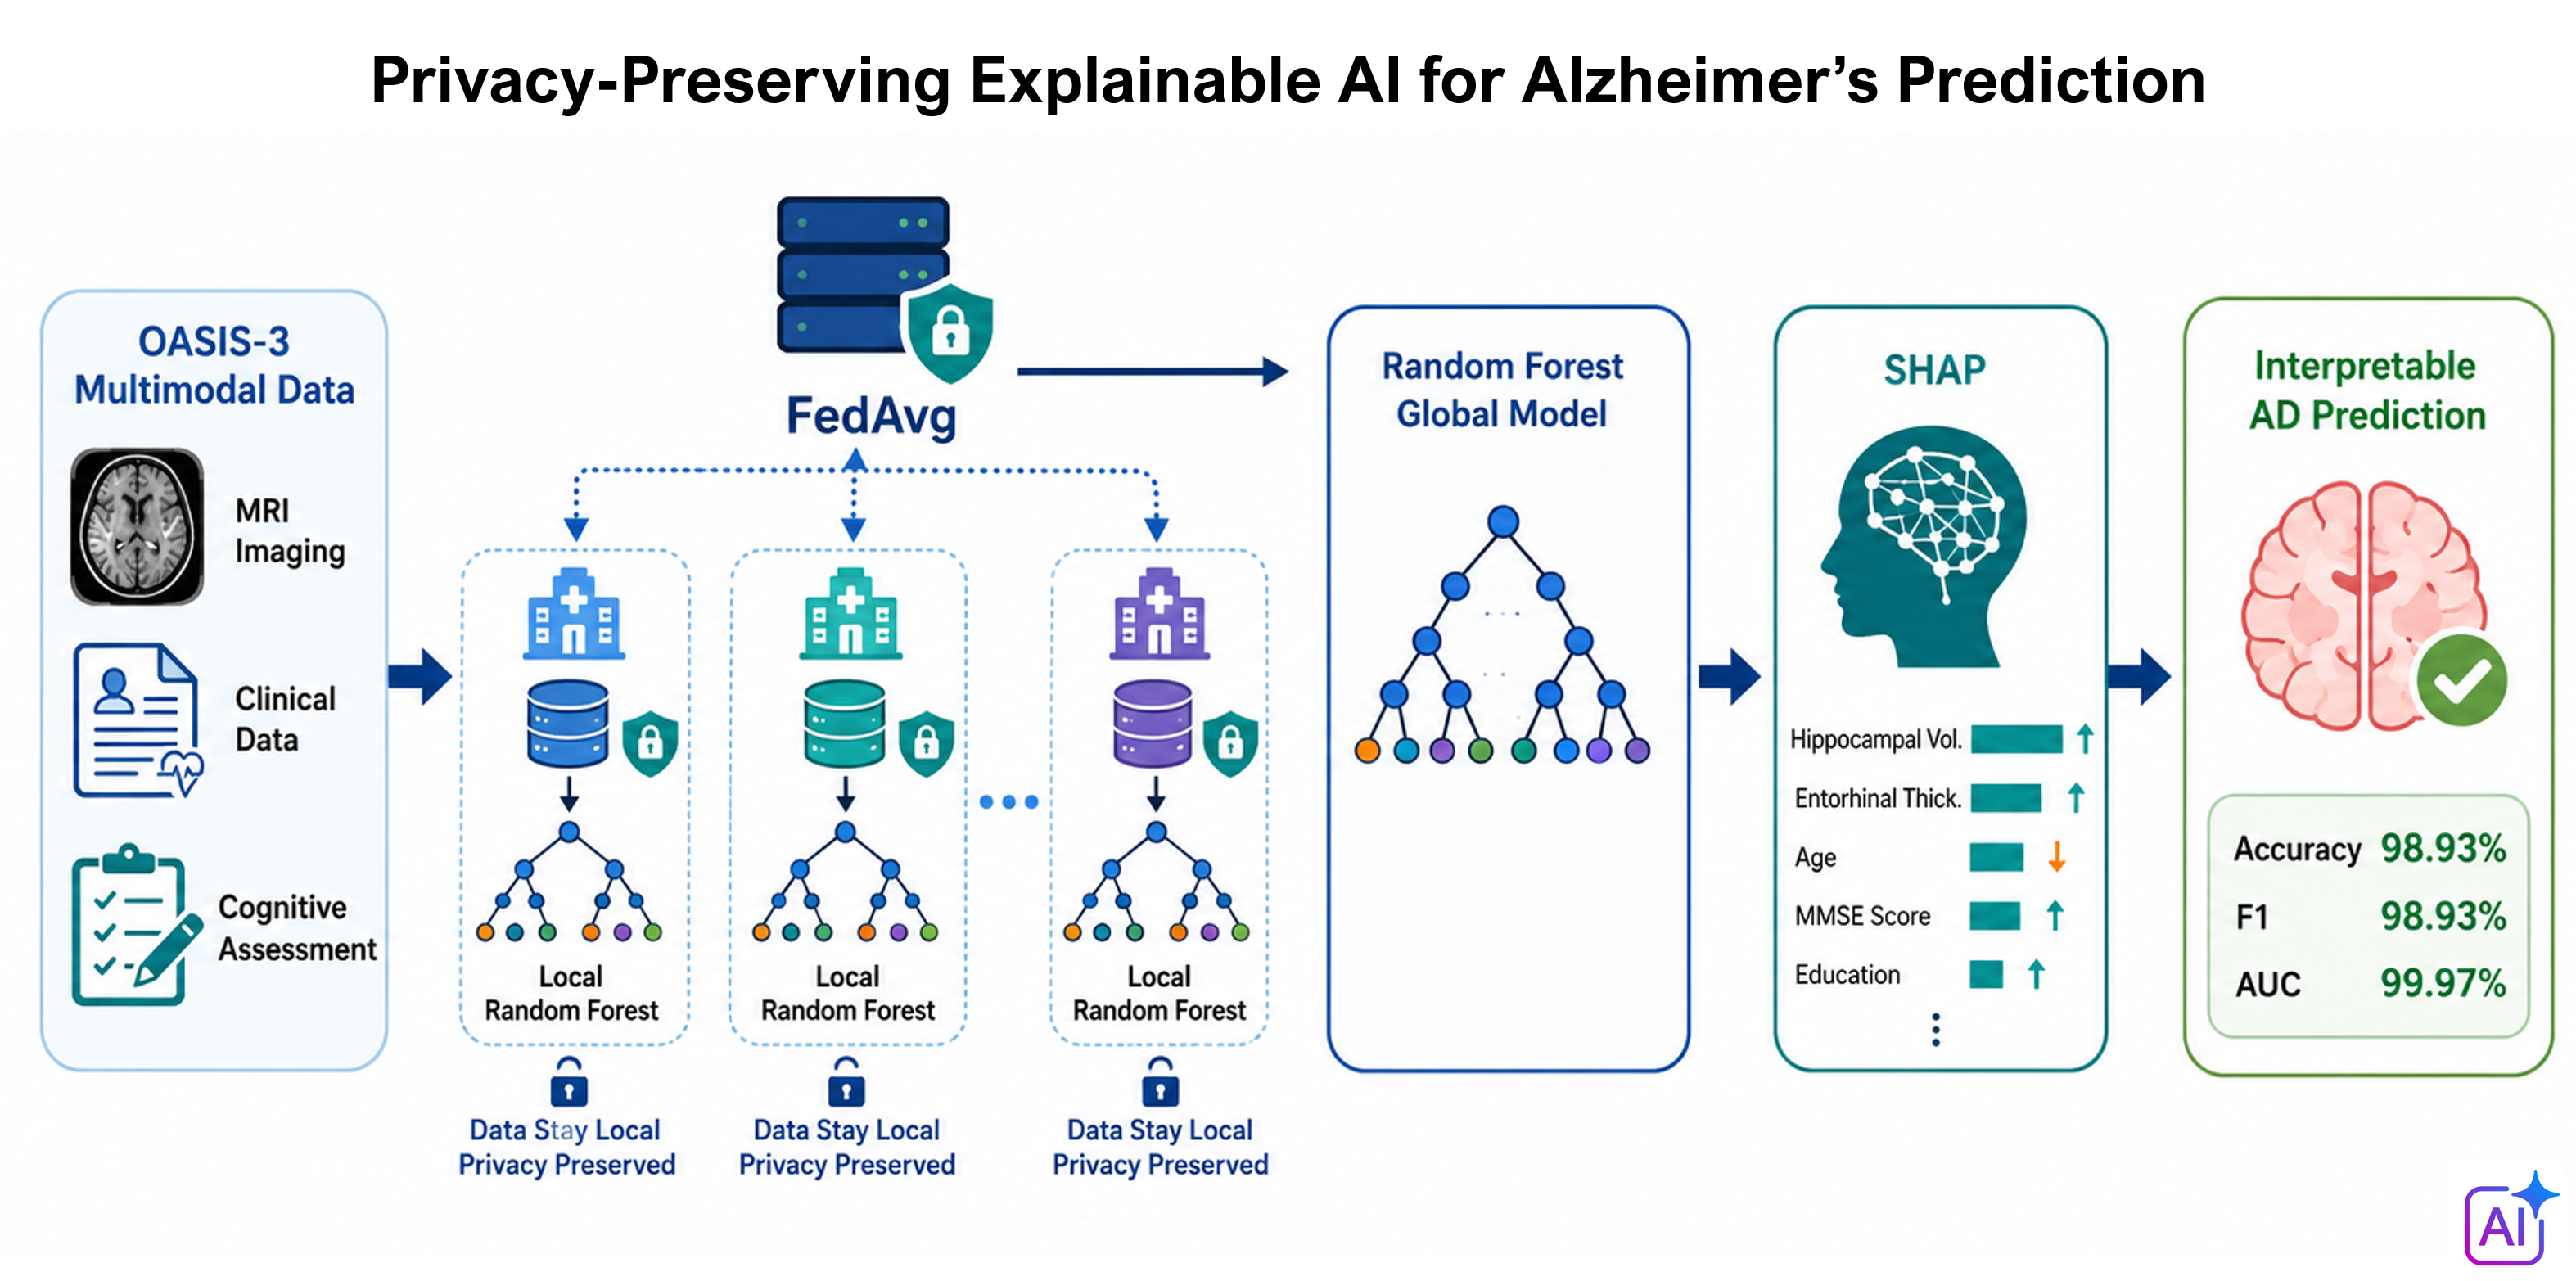
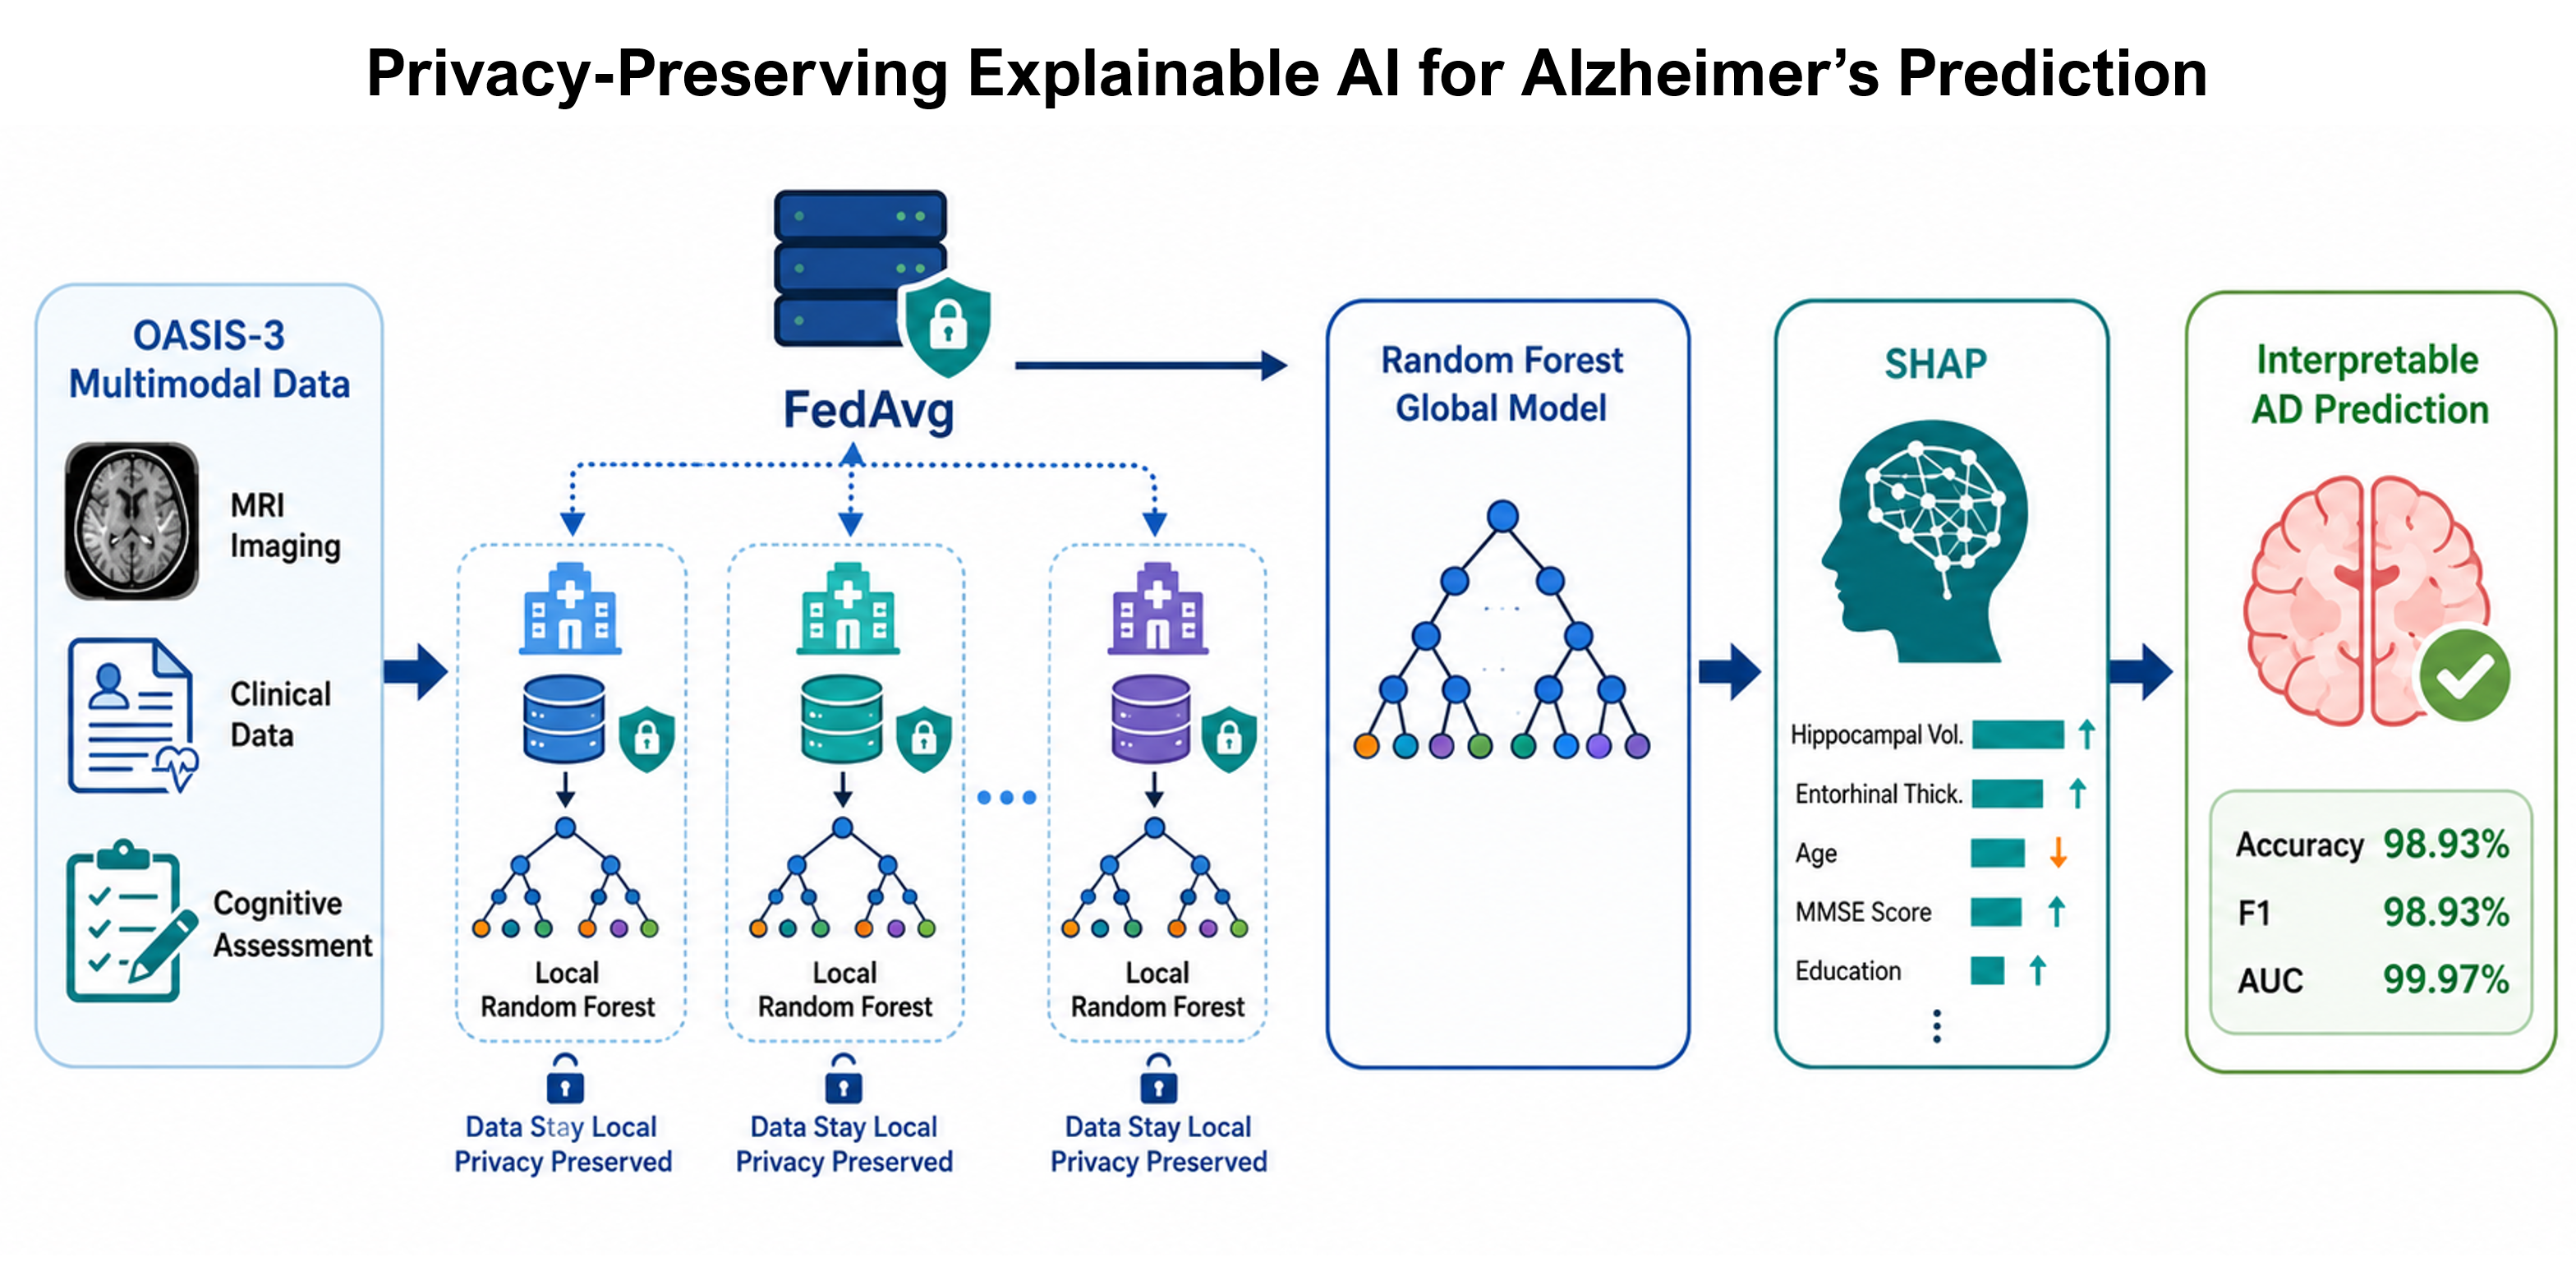
Update website

diff --git a/publications.html b/publications.html
@@ -63,7 +63,7 @@
                       <li>Department of Intelligent Semiconductors, Soongsil University</li>
                       <li>Department of Computer Science &amp; Engineering, Seoul National University</li>
                     </ol>
-                    <span class="corresponding-note">* Corresponding author.</span>
+                    <span class="corresponding-note">* Corresponding author: Seong-heum Kim.</span>
                   </dd>
                 </div>
                 <div>
@@ -110,7 +110,7 @@
                 </div>
                 <div>
                   <dt>Affiliation</dt>
-                  <dd>IT Application Research Center, Korea Electronics Technology Institute, Jeonju 54853, Republic of Korea.<span class="corresponding-note">* Corresponding author.</span></dd>
+                  <dd>IT Application Research Center, Korea Electronics Technology Institute, Jeonju 54853, Republic of Korea.<span class="corresponding-note">* Corresponding author: Sunghwan Jeong.</span></dd>
                 </div>
                 <div>
                   <dt>Timeline</dt>
@@ -168,7 +168,7 @@
                       <li>IT Application Research Center, Korea Electronics Technology Institute, Jeonju 54853, Republic of Korea</li>
                       <li>Department of Psychiatry, Seoul St Mary's Hospital, College of Medicine, The Catholic University of Korea, Seoul 03083, Republic of Korea</li>
                     </ol>
-                    <span class="corresponding-note">* Corresponding author.</span>
+                    <span class="corresponding-note">* Corresponding author: A. S. M. Sanwar Hosen.</span>
                   </dd>
                 </div>
                 <div>
@@ -230,7 +230,7 @@
                       <li>IT Application Research Center, Korea Electronics Technology Institute, Jeonju-si 54853, Republic of Korea</li>
                       <li>Department of Psychiatry, Seoul St. Mary's Hospital, College of Medicine, The Catholic University of Korea, Seoul 03083, South Korea</li>
                     </ol>
-                    <span class="corresponding-note">Corresponding authors: Md. Sazzadur Rahman and Mi Jin Park.</span>
+                    <span class="corresponding-note">* Corresponding authors: Md. Sazzadur Rahman and Mi Jin Park.</span>
                   </dd>
                 </div>
                 <div>
@@ -278,11 +278,11 @@
                 </div>
                 <div>
                   <dt>Authors</dt>
-                  <dd class="author-list"><strong>Deepak Ghimire</strong>, Byoungjun Kim, Donghoon Kim, SungHwan Jeong</dd>
+                  <dd class="author-list"><strong>Deepak Ghimire</strong><sup>*</sup>, Byoungjun Kim, Donghoon Kim, SungHwan Jeong</dd>
                 </div>
                 <div>
                   <dt>Affiliation</dt>
-                  <dd>IT Application Research Center, Korea Electronics Technology Institute.</dd>
+                  <dd>IT Application Research Center, Korea Electronics Technology Institute, Republic of Korea.<span class="corresponding-note">* Corresponding author: Deepak Ghimire.</span></dd>
                 </div>
                 <div>
                   <dt>Abstract</dt>
@@ -355,8 +355,8 @@
       </article>
 
       <article class="publication-card" data-topic="edge-ai">
-
-        <div class="pub-visual"><span class="pub-meta">ICCAS, 2024 · IEEE Conference</span><span class="pub-icon chip"></span></div>
+        
+        <div class="pub-visual"><span class="pub-meta">ICCAS, 2024 · IEEE Conference</span><img class="pub-abstract" src="assets/images/hybrid_cnn_vit_prune.png" alt="Graphical abstract for Pruning for Hybrid Neural Networks"></div>
 
         <div class="pub-body">
 <h2>A Study of Structured Pruning for Hybrid Neural Networks</h2>
@@ -371,8 +371,8 @@
       </article>
 
       <article class="publication-card" data-topic="health">
-
-        <div class="pub-visual"><span class="pub-meta">IEEE Access, 2024 · Q2 Open Access</span><span class="pub-icon brain"></span></div>
+        
+        <div class="pub-visual"><span class="pub-meta">IEEE Access, 2024 · Q2 Open Access</span><img class="pub-abstract" src="assets/images/brain_hamorrhage.png" alt="Graphical abstract for Brain Hemorrhage Detection"></div>
 
         <div class="pub-body">
 <h2>Exploring Deep Learning and Machine Learning Approaches for Brain Hemorrhage Detection</h2>
@@ -390,7 +390,7 @@
 
       <article class="publication-card" data-topic="health">
 
-        <div class="pub-visual"><span class="pub-meta">Electronics, 2024 · Q2 Journal</span><span class="pub-icon health"></span></div>
+        <div class="pub-visual"><span class="pub-meta">Electronics, 2024 · Q2 Journal</span><img class="pub-abstract" src="assets/images/cerebral_stroke.png" alt="Graphical abstract for Cerebral Stroke Prediction"></div>
 
         <div class="pub-body">
 <h2>Exploring Machine Learning for Predicting Cerebral Stroke: A Study in Discovery</h2>

diff --git a/writing.html b/writing.html
@@ -24,7 +24,7 @@
     <section class="page-hero writing-hero">
       <p class="eyebrow">Writing, Opinion, and Vlog</p>
       <h1>A place for public thought beyond the CV.</h1>
-      <p>Use this page for essays, Nepali or English opinion pieces, links to online news portals, embedded videos, field notes from research, and reflections connecting technology with society.</p>
+      <!--<p>Use this page for essays, Nepali or English opinion pieces, links to online news portals, embedded videos, field notes from research, and reflections connecting technology with society.</p>-->
     </section>
 
     <section class="writing-layout">